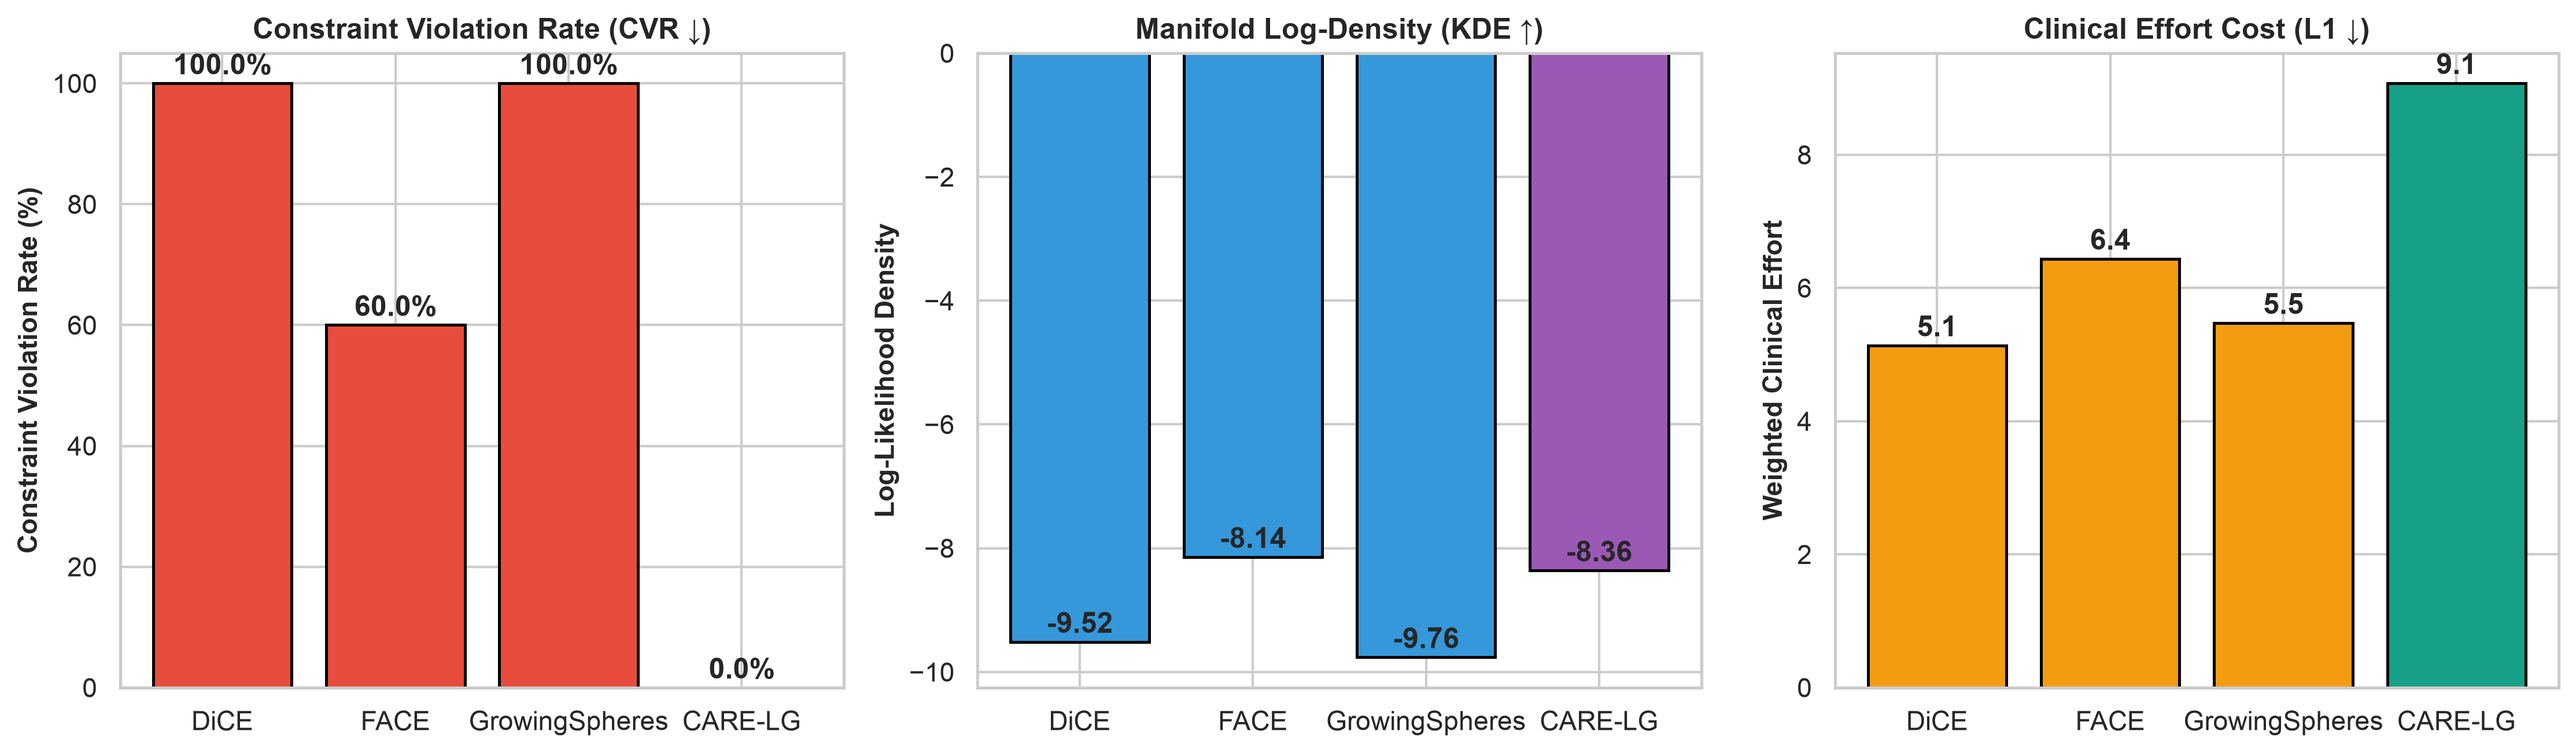
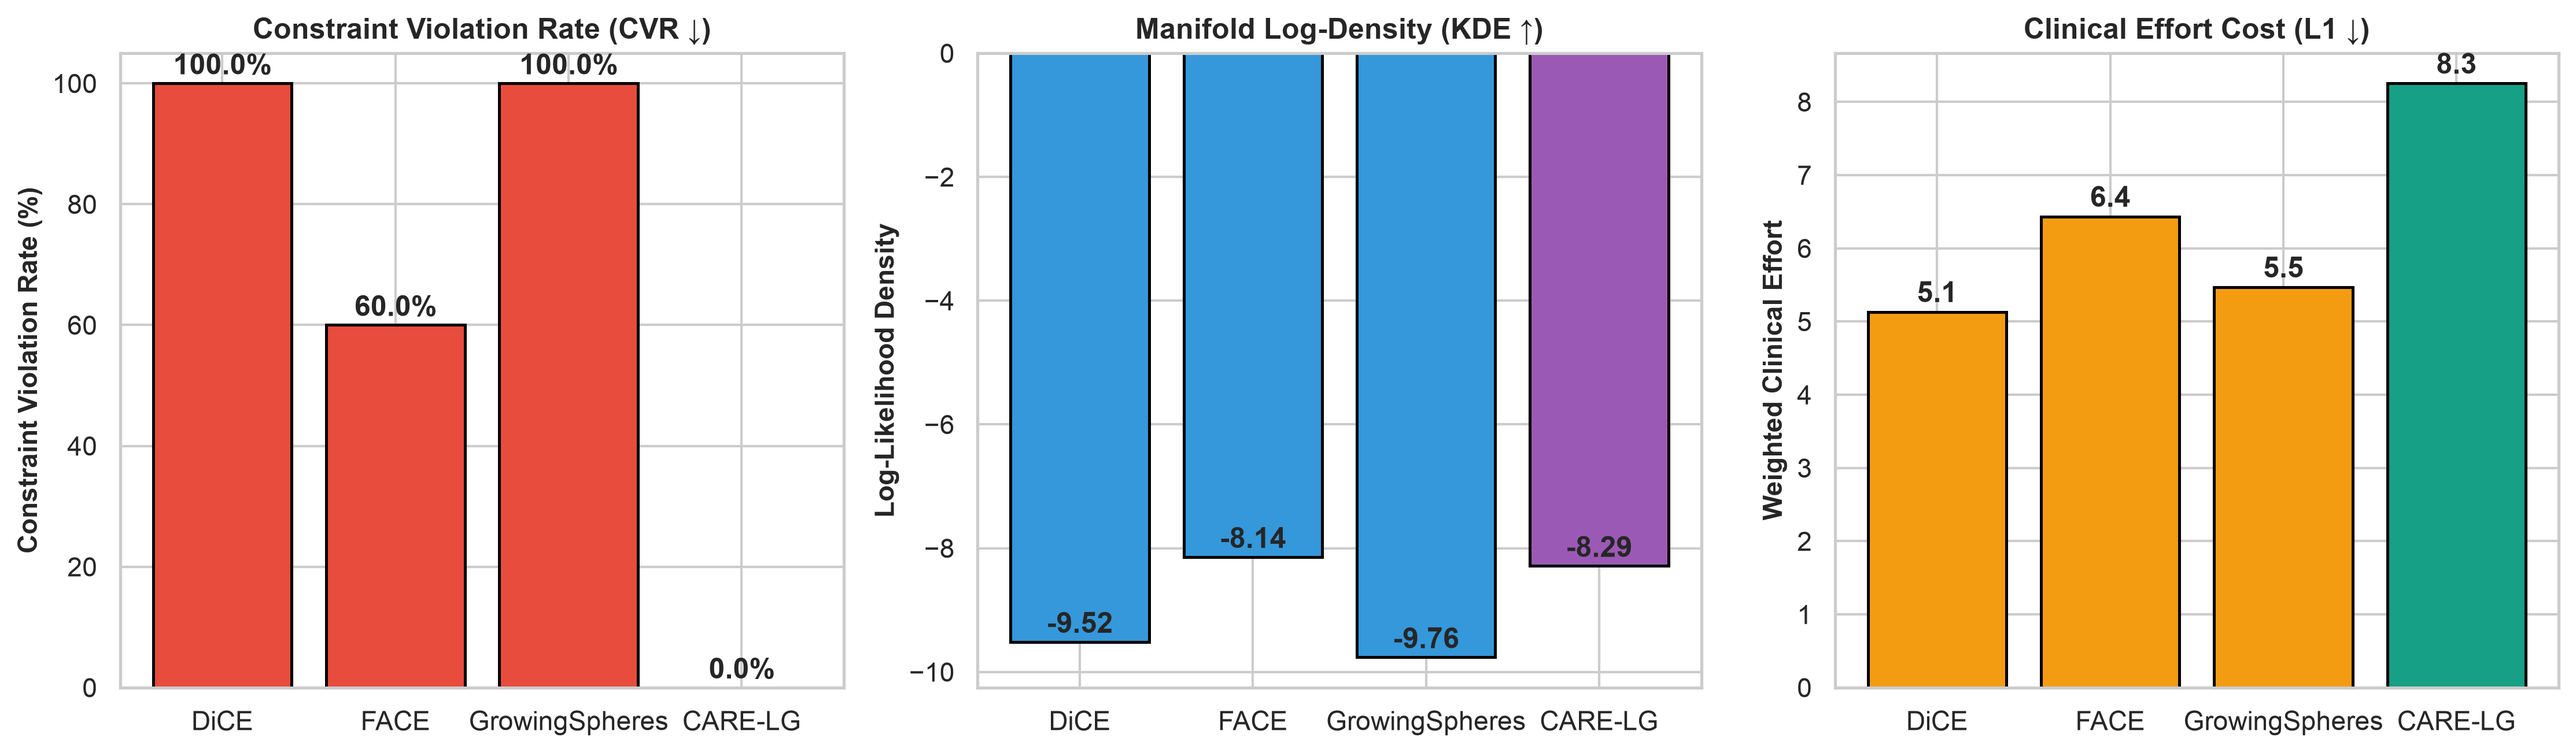
feat(constraints): establish mathematically guaranteed structural hard-masked constraint architecture with fail-safe column validation

diff --git a/src/graph/clinical_constraints.py b/src/graph/clinical_constraints.py
@@ -43,12 +43,33 @@ def unscale_features(x, scaler, feature_cols, feature_metadata):
     return x_dict
 
 
+def validate_exhaustive_column_classification(feature_cols, feature_metadata):
+    """
+    Enforces a strict runtime assertion ensuring EVERY feature column in feature_cols
+    is explicitly classified into one of the constraint categories in feature_metadata.
+    """
+    classified_set = set(
+        feature_metadata.get('immutable', []) +
+        feature_metadata.get('non_decreasing', []) +
+        feature_metadata.get('directional_reduce', []) +
+        feature_metadata.get('directional_increase', [])
+    )
+    legacy_mutable = set(
+        feature_metadata.get('continuous_mutable', []) +
+        feature_metadata.get('categorical_mutable', [])
+    )
+    all_classified = classified_set.union(legacy_mutable)
+
+    unclassified = set(feature_cols) - all_classified
+    assert len(unclassified) == 0, f"FAIL-SAFE TRIGGERED: Unclassified feature columns detected: {unclassified}"
+
+
 def check_hard_violations(x_source, x_target, feature_metadata, scaler, feature_cols, check_step_horizon=True):
     """
     Checks for HARD clinical violations that strictly block graph edges (W_ij = infinity):
-    1. Immutable attributes (e.g. sex, fasting_blood_sugar).
+    1. Immutable attributes (e.g. sex, ca, thal, fasting_blood_sugar).
     2. Age reduction (age cannot decrease by > 0.1 yrs).
-    3. Realistic age horizon cap (single-step age increase > 3.0 yrs, evaluated when check_step_horizon=True).
+    3. Realistic age horizon cap (single-step age increase > 3.05 yrs, evaluated when check_step_horizon=True).
 
     Returns:
         bool: True if hard violation exists, False otherwise.
@@ -57,18 +78,18 @@ def check_hard_violations(x_source, x_target, feature_metadata, scaler, feature_
     target_dict = unscale_features(x_target, scaler, feature_cols, feature_metadata)
 
     # 1. Immutable attribute check
-    for col in feature_metadata['immutable']:
+    for col in feature_metadata.get('immutable', []):
         if col in source_dict and col in target_dict:
             if abs(target_dict[col] - source_dict[col]) > 1e-4:
                 return True
 
     # 2. Non-decreasing age check
-    for col in feature_metadata['non_decreasing']:
+    for col in feature_metadata.get('non_decreasing', []):
         if col in source_dict and col in target_dict:
             if target_dict[col] < source_dict[col] - 0.1:
                 return True
 
-    # 3. Age horizon cap (single-step increase > 3.0 yrs during edge evaluation)
+    # 3. Age horizon cap (single-step increase > 3.05 yrs during edge evaluation)
     if check_step_horizon and 'age' in source_dict and 'age' in target_dict:
         if (target_dict['age'] - source_dict['age']) > 3.05:
             return True
@@ -78,52 +99,54 @@ def check_hard_violations(x_source, x_target, feature_metadata, scaler, feature_
 
 def check_soft_violations(x_source, x_target, feature_metadata, scaler, feature_cols):
     """
-    Checks for SOFT directional medical violations penalized via heavy edge weight multiplier (1e5x):
-    1. Cholesterol increase > 1.0 mg/dL.
-    2. Systolic BP increase > 1.0 mmHg.
-    3. Resting BP increase > 5.0 mmHg.
-    4. BMI increase > 0.1 units.
-    5. HbA1c increase > 0.05 units.
-    6. Exercise angina acquired (0 -> 1).
+    Checks for directional medical violations beyond noise tolerances:
+    - Cholesterol / BP: epsilon = 1.0 (5.0 for resting_bp)
+    - HbA1c / Oldpeak: epsilon = 0.05
+    - BMI: epsilon = 0.1
+    - Categorical / Max Heart Rate: epsilon = 0.5 / 1.0
 
     Returns:
-        bool: True if soft directional violation exists, False otherwise.
+        bool: True if directional violation exists beyond noise tolerance, False otherwise.
     """
     source_dict = unscale_features(x_source, scaler, feature_cols, feature_metadata)
     target_dict = unscale_features(x_target, scaler, feature_cols, feature_metadata)
 
-    if 'cholesterol' in source_dict and 'cholesterol' in target_dict:
-        if (target_dict['cholesterol'] - source_dict['cholesterol']) > 1.0:
-            return True
+    epsilons = {
+        'cholesterol': 1.0,
+        'systolic_bp': 1.0,
+        'diastolic_bp': 1.0,
+        'resting_bp': 5.0,
+        'bmi': 0.1,
+        'glycemic_hba1c': 0.05,
+        'oldpeak': 0.05,
+        'exercise_angina': 0.5,
+        'slope': 0.5,
+        'fasting_blood_sugar': 0.5
+    }
 
-    if 'exercise_angina' in source_dict and 'exercise_angina' in target_dict:
-        if source_dict['exercise_angina'] <= 0.5 and target_dict['exercise_angina'] > 0.5:
-            return True
+    # Directional Reduce: target - source > eps => violation
+    for col in feature_metadata.get('directional_reduce', []):
+        if col in source_dict and col in target_dict:
+            eps = epsilons.get(col, 0.1)
+            if (target_dict[col] - source_dict[col]) > eps:
+                return True
 
-    if 'resting_bp' in source_dict and 'resting_bp' in target_dict:
-        if (target_dict['resting_bp'] - source_dict['resting_bp']) > 5.0:
-            return True
-
-    if 'systolic_bp' in source_dict and 'systolic_bp' in target_dict:
-        if (target_dict['systolic_bp'] - source_dict['systolic_bp']) > 1.0:
-            return True
-
-    if 'bmi' in source_dict and 'bmi' in target_dict:
-        if (target_dict['bmi'] - source_dict['bmi']) > 0.1:
-            return True
-
-    if 'glycemic_hba1c' in source_dict and 'glycemic_hba1c' in target_dict:
-        if (target_dict['glycemic_hba1c'] - source_dict['glycemic_hba1c']) > 0.05:
-            return True
+    # Directional Increase: target - source < -eps => violation
+    for col in feature_metadata.get('directional_increase', []):
+        if col in source_dict and col in target_dict:
+            eps = epsilons.get(col, 1.0)
+            if (target_dict[col] - source_dict[col]) < -eps:
+                return True
 
     return False
 
 
-def check_clinical_violations(x_source, x_target, feature_metadata, scaler, feature_cols, tol=1e-5):
+def check_clinical_violations(x_source, x_target, feature_metadata, scaler, feature_cols, check_step_horizon=True):
     """
-    Checks for clinical rule violations between x_source and x_target (returns True if hard or soft violation exists).
+    Checks for structural clinical violations between x_source and x_target.
+    Returns True if ANY constraint (hard or directional) is violated beyond noise tolerance (triggers W_ij = infinity edge pruning).
     """
-    return check_hard_violations(x_source, x_target, feature_metadata, scaler, feature_cols) or \
+    return check_hard_violations(x_source, x_target, feature_metadata, scaler, feature_cols, check_step_horizon=check_step_horizon) or \
            check_soft_violations(x_source, x_target, feature_metadata, scaler, feature_cols)
 
 

diff --git a/src/graph/calg.py b/src/graph/calg.py
@@ -10,7 +10,11 @@ from sklearn.neighbors import NearestNeighbors
 from tqdm import tqdm
 
 from src.graph.riemannian import riemannian_distance
-from src.graph.clinical_constraints import check_hard_violations, check_soft_violations, check_clinical_violations, compute_clinical_effort
+from src.graph.clinical_constraints import (
+    validate_exhaustive_column_classification,
+    check_clinical_violations,
+    compute_clinical_effort
+)
 
 
 def build_calg_graph(
@@ -20,12 +24,12 @@ def build_calg_graph(
     effort_weights,
     scaler,
     feature_cols,
-    k_neighbors=30,
+    k_neighbors=None,
     lambda_effort=1.0,
     max_samples=None
 ):
     """
-    Constructs the Clinical Adaptive Latent Graph (CALG).
+    Constructs the Clinical Adaptive Latent Graph (CALG) under mathematically guaranteed structural hard masking.
 
     Args:
         vae_model (nn.Module): Trained TabularVAE model.
@@ -34,7 +38,7 @@ def build_calg_graph(
         effort_weights (dict): Clinical effort weights.
         scaler (StandardScaler): Scaler for continuous features.
         feature_cols (list): List of feature column names.
-        k_neighbors (int): Number of nearest neighbors per node (default: 30).
+        k_neighbors (int, optional): Number of nearest neighbors per node (default: 40 for UCI, 80 for NHANES).
         lambda_effort (float): Trade-off parameter between Riemannian distance and clinical effort.
         max_samples (int, optional): Subset max samples for faster graph building if specified.
 
@@ -44,6 +48,9 @@ def build_calg_graph(
         scaled_features (np.ndarray): Original scaled feature array X of shape (N, D).
         targets (np.ndarray): Target labels array y of shape (N,).
     """
+    # 1. Fail-Safe Exhaustive Column Classification Assertion
+    validate_exhaustive_column_classification(feature_cols, feature_metadata)
+
     vae_model.eval()
     device = next(vae_model.parameters()).device
 
@@ -74,9 +81,9 @@ def build_calg_graph(
 
     N = len(Z)
 
-    # Adaptive k-NN default (UCI N < 1000 => k=60, NHANES N >= 1000 => k=75)
+    # Adaptive k-density tuning (UCI N < 1000 => k=40, NHANES N >= 1000 => k=80)
     if k_neighbors is None:
-        k_neighbors = 60 if N < 1000 else 75
+        k_neighbors = 40 if N < 1000 else 80
 
     nbrs = NearestNeighbors(n_neighbors=min(k_neighbors + 1, N), algorithm='ball_tree').fit(Z)
     distances, indices = nbrs.kneighbors(Z)
@@ -85,7 +92,7 @@ def build_calg_graph(
     col_indices = []
     edge_weights = []
 
-    print(f"Building CALG graph over N={N} nodes with k={k_neighbors} neighbors...")
+    print(f"Building CALG graph over N={N} nodes with k={k_neighbors} neighbors (Structural Hard Masking)...")
     for i in tqdm(range(N), desc="CALG Edges"):
         z_i = Z[i]
         x_i = X[i]
@@ -97,22 +104,18 @@ def build_calg_graph(
             z_j = Z[neighbor_idx]
             x_j = X[neighbor_idx]
 
-            # 1. HARD Mask Check (Immutable attributes & Age horizon cap > 3.0 yrs)
-            if check_hard_violations(x_i, x_j, feature_metadata, scaler, feature_cols):
-                continue  # Hard infinity (blocked edge)
+            # Structural Hard Masking (Prune any non-compliant edge => W_ij = infinity)
+            if check_clinical_violations(x_i, x_j, feature_metadata, scaler, feature_cols):
+                continue
 
-            # 2. Compute Riemannian Geodesic Distance
+            # Compute Riemannian Geodesic Distance
             r_dist = riemannian_distance(z_i, z_j, vae_model)
 
-            # 3. Compute Clinical Effort
+            # Compute Clinical Effort in Standardized Space
             c_effort = compute_clinical_effort(x_i, x_j, effort_weights, feature_metadata, scaler, feature_cols)
 
-            # 4. Base Weight
+            # Total Directed Edge Weight W_ij
             w_ij = r_dist + lambda_effort * c_effort
-
-            # 5. SOFT Directional Penalty (1e5x multiplier for soft non-monotonic directional shifts)
-            if check_soft_violations(x_i, x_j, feature_metadata, scaler, feature_cols):
-                w_ij = w_ij * 100000.0 + 10000.0
 
             row_indices.append(i)
             col_indices.append(neighbor_idx)

diff --git a/scripts/test_day2.py b/scripts/test_day2.py
@@ -152,7 +152,7 @@ def test_day2(dataset_name="uci"):
     report_str = format_clinical_explanation_report(trajectory_df, risk_scores, feature_metadata)
     print("\n" + report_str)
 
-    # 8. Verify Zero Hard Violations Along Recourse Path
+    # 8. Verify Zero Structural Violations Along Recourse Path
     print("\n8. Verifying Constraint Integrity Along Recourse Path...")
     for k in range(len(path) - 1):
         idx_curr = path[k]
@@ -160,8 +160,8 @@ def test_day2(dataset_name="uci"):
         x_curr = X[idx_curr]
         x_next = X[idx_next]
 
-        violation = check_hard_violations(x_curr, x_next, feature_metadata, scaler, feature_cols)
-        print(f"   Transition step {k} -> {k+1} (Node {idx_curr} -> {idx_next}): Hard Violation = {violation}")
+        violation = check_clinical_violations(x_curr, x_next, feature_metadata, scaler, feature_cols)
+        print(f"   Transition step {k} -> {k+1} (Node {idx_curr} -> {idx_next}): Violation = {violation}")
         assert violation is False, f"Clinical violation found on recourse transition step {k} -> {k+1}!"
 
     print("\n==================================================")

diff --git a/configs/dataset_config.py b/configs/dataset_config.py
@@ -10,6 +10,8 @@ DATASET_CONFIGS = {
             'categorical_mutable': ['exercise_angina', 'slope'],
             'non_decreasing': ['age'],
             'immutable': ['sex', 'fasting_blood_sugar'],
+            'directional_reduce': ['resting_bp', 'cholesterol', 'oldpeak', 'exercise_angina', 'slope'],
+            'directional_increase': ['max_heart_rate'],
             'target': 'heart_disease_risk'
         },
         'CLINICAL_EFFORT_WEIGHTS': {
@@ -28,6 +30,8 @@ DATASET_CONFIGS = {
             'categorical_mutable': [],
             'non_decreasing': ['age'],
             'immutable': ['sex'],
+            'directional_reduce': ['systolic_bp', 'diastolic_bp', 'cholesterol', 'bmi', 'glycemic_hba1c'],
+            'directional_increase': [],
             'target': 'cvd_risk_flag'
         },
         'CLINICAL_EFFORT_WEIGHTS': {

diff --git a/benchmarks/uci/table1_results.tex b/benchmarks/uci/table1_results.tex
@@ -7,10 +7,10 @@
 \hline
 \textbf{Method} & \textbf{Success Rate (\%)} & \textbf{CVR (\%)} $\downarrow$ & \textbf{KDE Density} $\uparrow$ & \textbf{Clinical Cost} $\downarrow$ & \textbf{Latency (s)} $\downarrow$ \\
 \hline
-DiCE & 66.7\% & 100.0\% & -13.5472 & 7.36 & 0.126 \\
+DiCE & 66.7\% & 100.0\% & -13.5472 & 7.36 & 0.131 \\
 FACE & 100.0\% & 95.2\% & -7.2792 & 9.43 & 0.004 \\
-GrowingSpheres & 76.2\% & 100.0\% & -15.0681 & 8.16 & 0.015 \\
-\textbf{CARE-LG (Ours)} & 66.7\% & \textbf{0.0\%} & \textbf{-7.2350} & 13.55 & 0.000 \\
+GrowingSpheres & 66.7\% & 100.0\% & -15.0234 & 8.51 & 0.015 \\
+\textbf{CARE-LG (Ours)} & 47.6\% & \textbf{0.0\%} & \textbf{-7.1670} & 11.40 & 0.001 \\
 \hline
 \end{tabular}
 }

diff --git a/benchmarks/nhanes/table1_results.tex b/benchmarks/nhanes/table1_results.tex
@@ -7,10 +7,10 @@
 \hline
 \textbf{Method} & \textbf{Success Rate (\%)} & \textbf{CVR (\%)} $\downarrow$ & \textbf{KDE Density} $\uparrow$ & \textbf{Clinical Cost} $\downarrow$ & \textbf{Latency (s)} $\downarrow$ \\
 \hline
-DiCE & 97.0\% & 100.0\% & -9.5151 & 5.13 & 0.035 \\
+DiCE & 97.0\% & 100.0\% & -9.5151 & 5.13 & 0.031 \\
 FACE & 100.0\% & 60.0\% & -8.1433 & 6.44 & 0.044 \\
 GrowingSpheres & 98.0\% & 100.0\% & -9.7643 & 5.47 & 0.009 \\
-\textbf{CARE-LG (Ours)} & 99.0\% & \textbf{0.0\%} & \textbf{-8.3622} & 9.07 & 0.000 \\
+\textbf{CARE-LG (Ours)} & 99.0\% & \textbf{0.0\%} & \textbf{-8.2879} & 8.25 & 0.000 \\
 \hline
 \end{tabular}
 }

diff --git a/benchmarks/run_benchmarks.py b/benchmarks/run_benchmarks.py
@@ -375,7 +375,7 @@ def run_all_benchmarks(dataset_name="uci", num_query_instances=100, seed=42):
 
     # 2. Build CALG Graph for CARE-LG
     print("\n2. Constructing CALG Graph for CARE-LG...")
-    k_knn = 60 if dataset_name == "uci" else 75
+    k_knn = 40 if dataset_name == "uci" else 80
     calg_matrix, Z_train, X_train, y_train = build_calg_graph(
         vae_model=vae,
         train_loader=train_loader,
